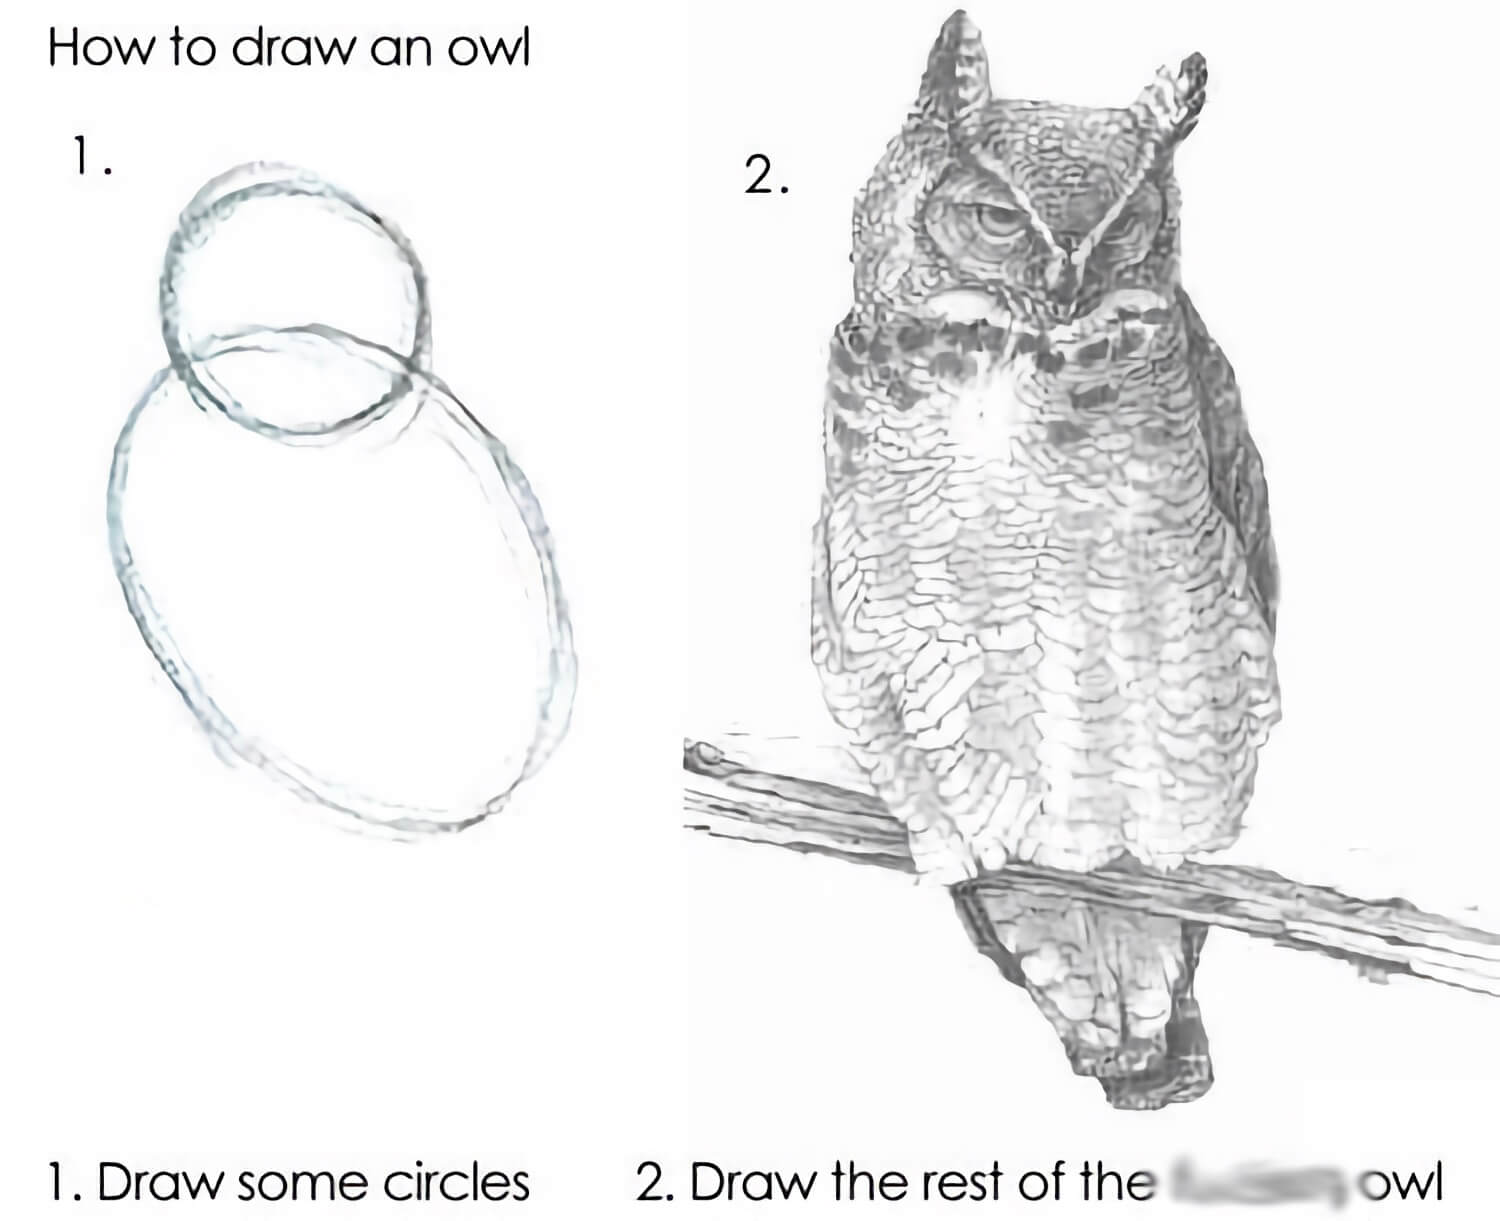
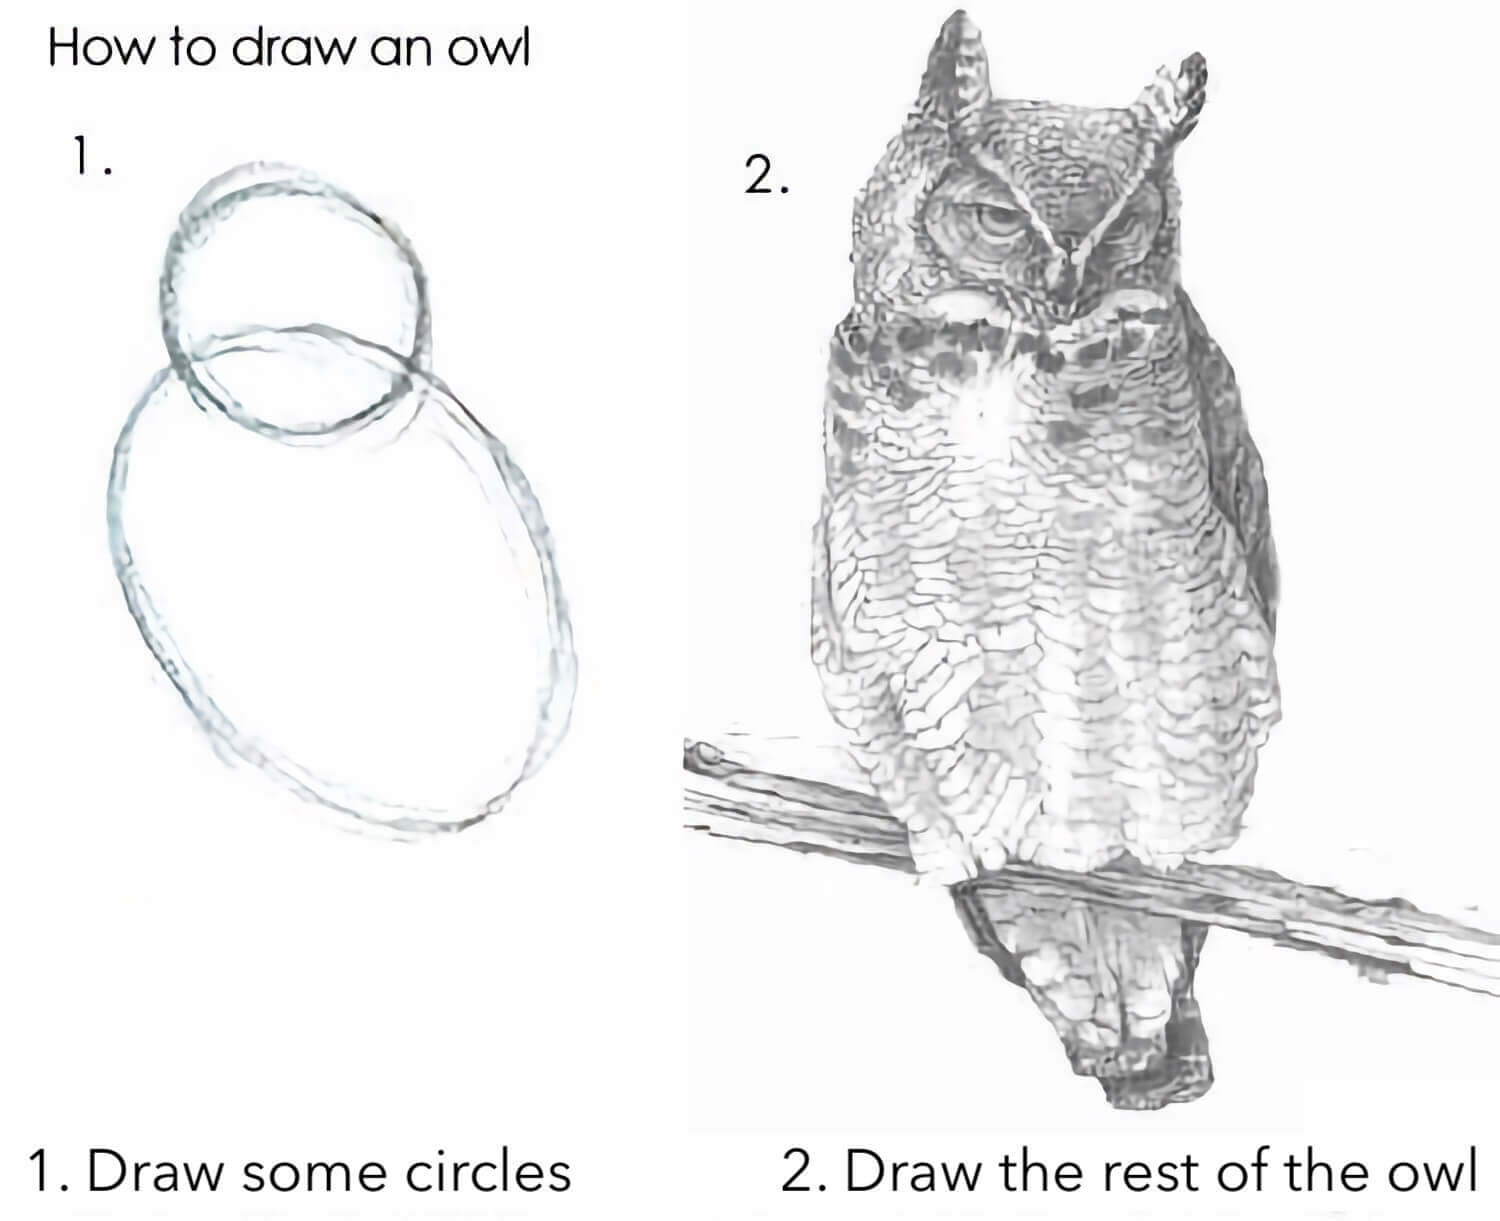
Added stars image, removed blurry text from owl

Changed region(s): [[0.4293, 0.9337, 1.0, 0.9959], [0.0, 0.9337, 0.368, 0.9959]]

diff --git a/12dtc/projman/versions.md b/12dtc/projman/versions.md
@@ -19,6 +19,8 @@ If you were drawing a picture, you're likely to:
 
 When we make digital items it’s the same - we don’t usually make the whole thing all at once and get it right the first time.
 
+![Stars](img/versions_stars.png)
+
 As you develop your outcome, it is important to save versions of your work to show its development over time. This also makes it easier if you find something doesn’t work and you need to revert to an earlier version — *or erase some lines and draw them again*.
 
 There are two main ways to save versions of your work.
